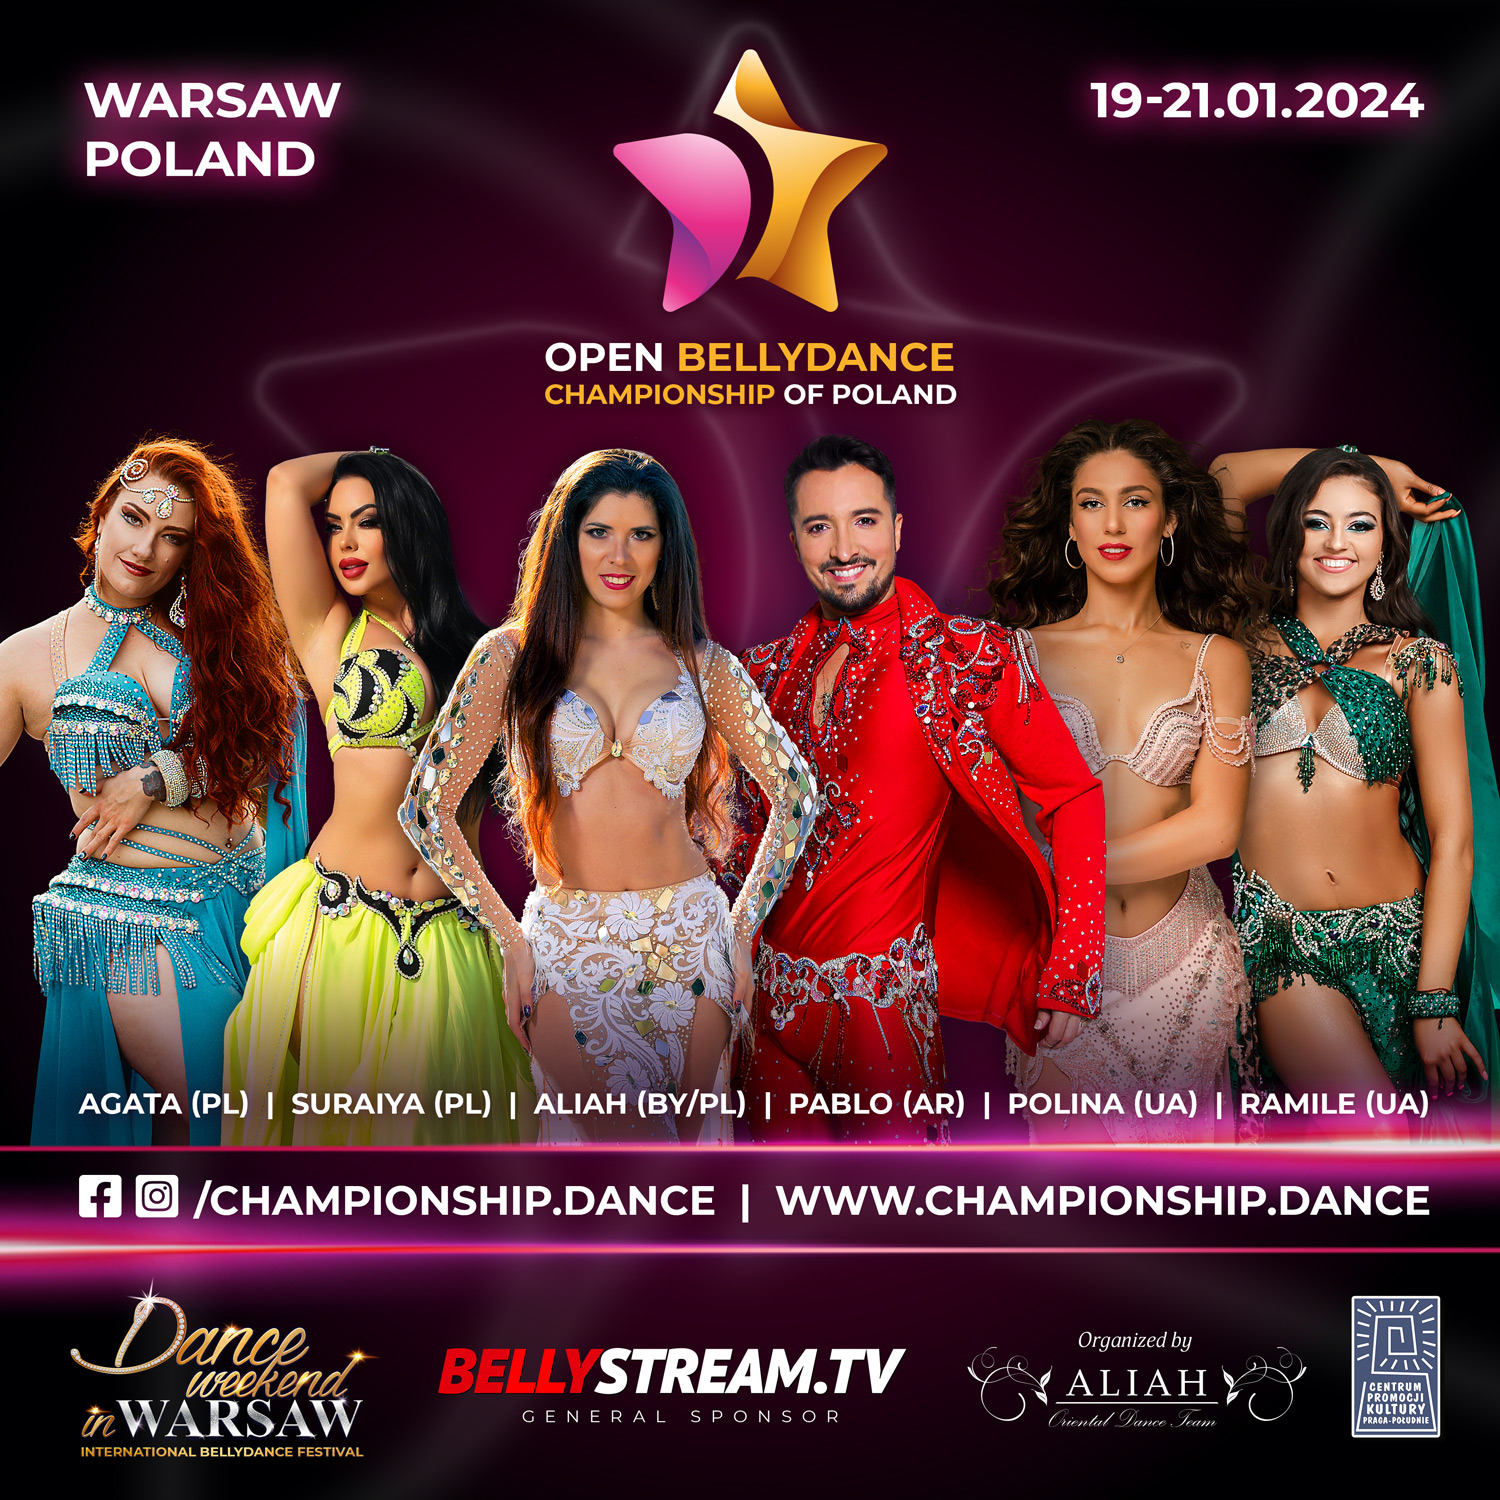
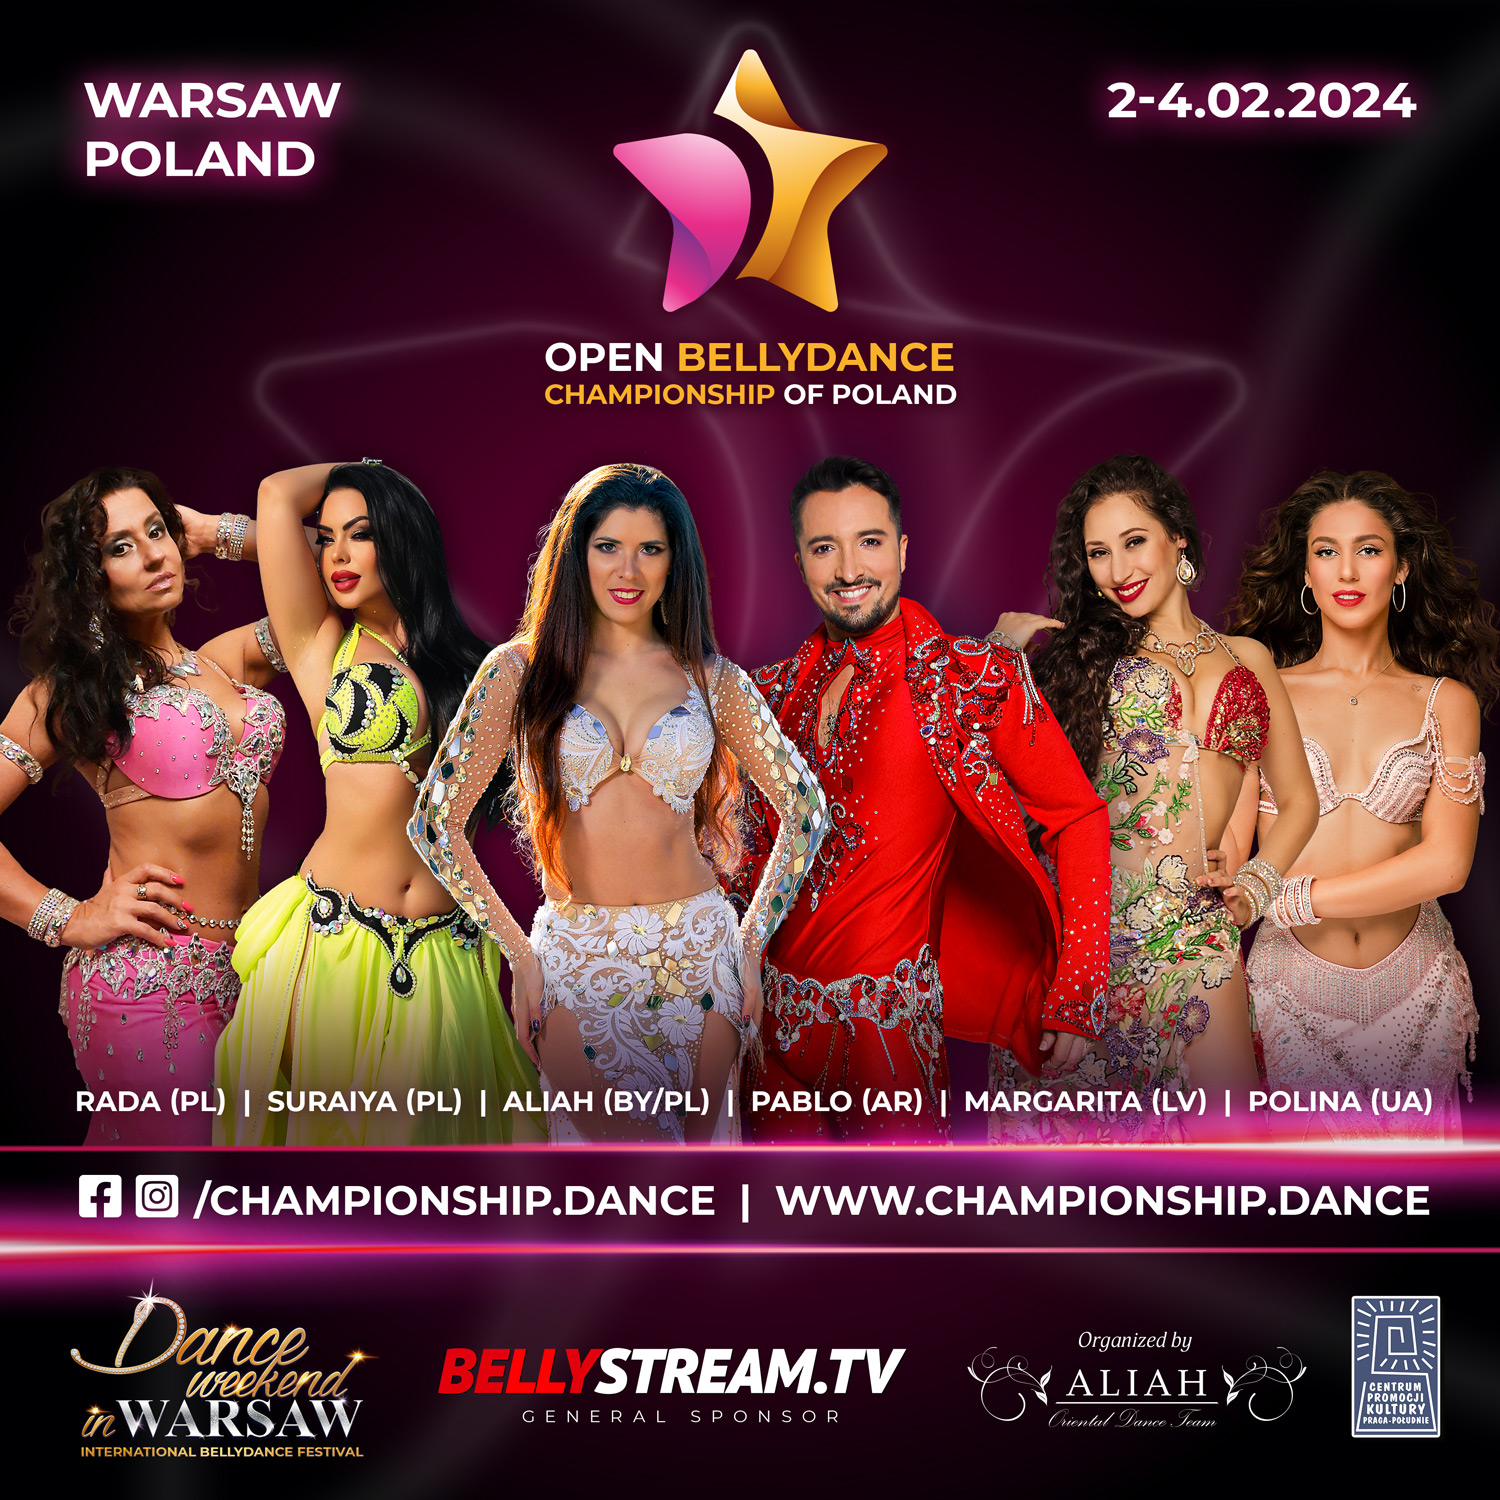
feat: add Margarita

diff --git a/src/ulis/schedule.ts b/src/ulis/schedule.ts
@@ -125,15 +125,15 @@ export const schedule: Day[] = [
         teachersPriceGroup: 'group1',
         translations: {
           en: {
-            title: 'Ramile',
-            description: 'Pop song choreography',
+            title: 'Margarita Kamjaka',
+            description: 'Baladi choreography',
           },
           ru: {
-            title: 'Ramile',
-            description: 'Хореография Pop song',
+            title: 'Маргарита Камяк',
+            description: 'Хореография Baladi',
           },
           pl: {
-            title: 'Ramile',
+            title: 'Margarita Kamjaka',
             description: 'Хореография',
           },
         },

diff --git a/src/ulis/price.ts b/src/ulis/price.ts
@@ -6,7 +6,7 @@ export const isFullPassSoldOut = false;
 
 //Translation keys for Price page
 export const teachersWsGroups = {
-  group1: ['polina', 'ramile', 'suraiya'],
+  group1: ['polina', 'margarita', 'suraiya'],
   group2: ['pablo'],
 };
 
